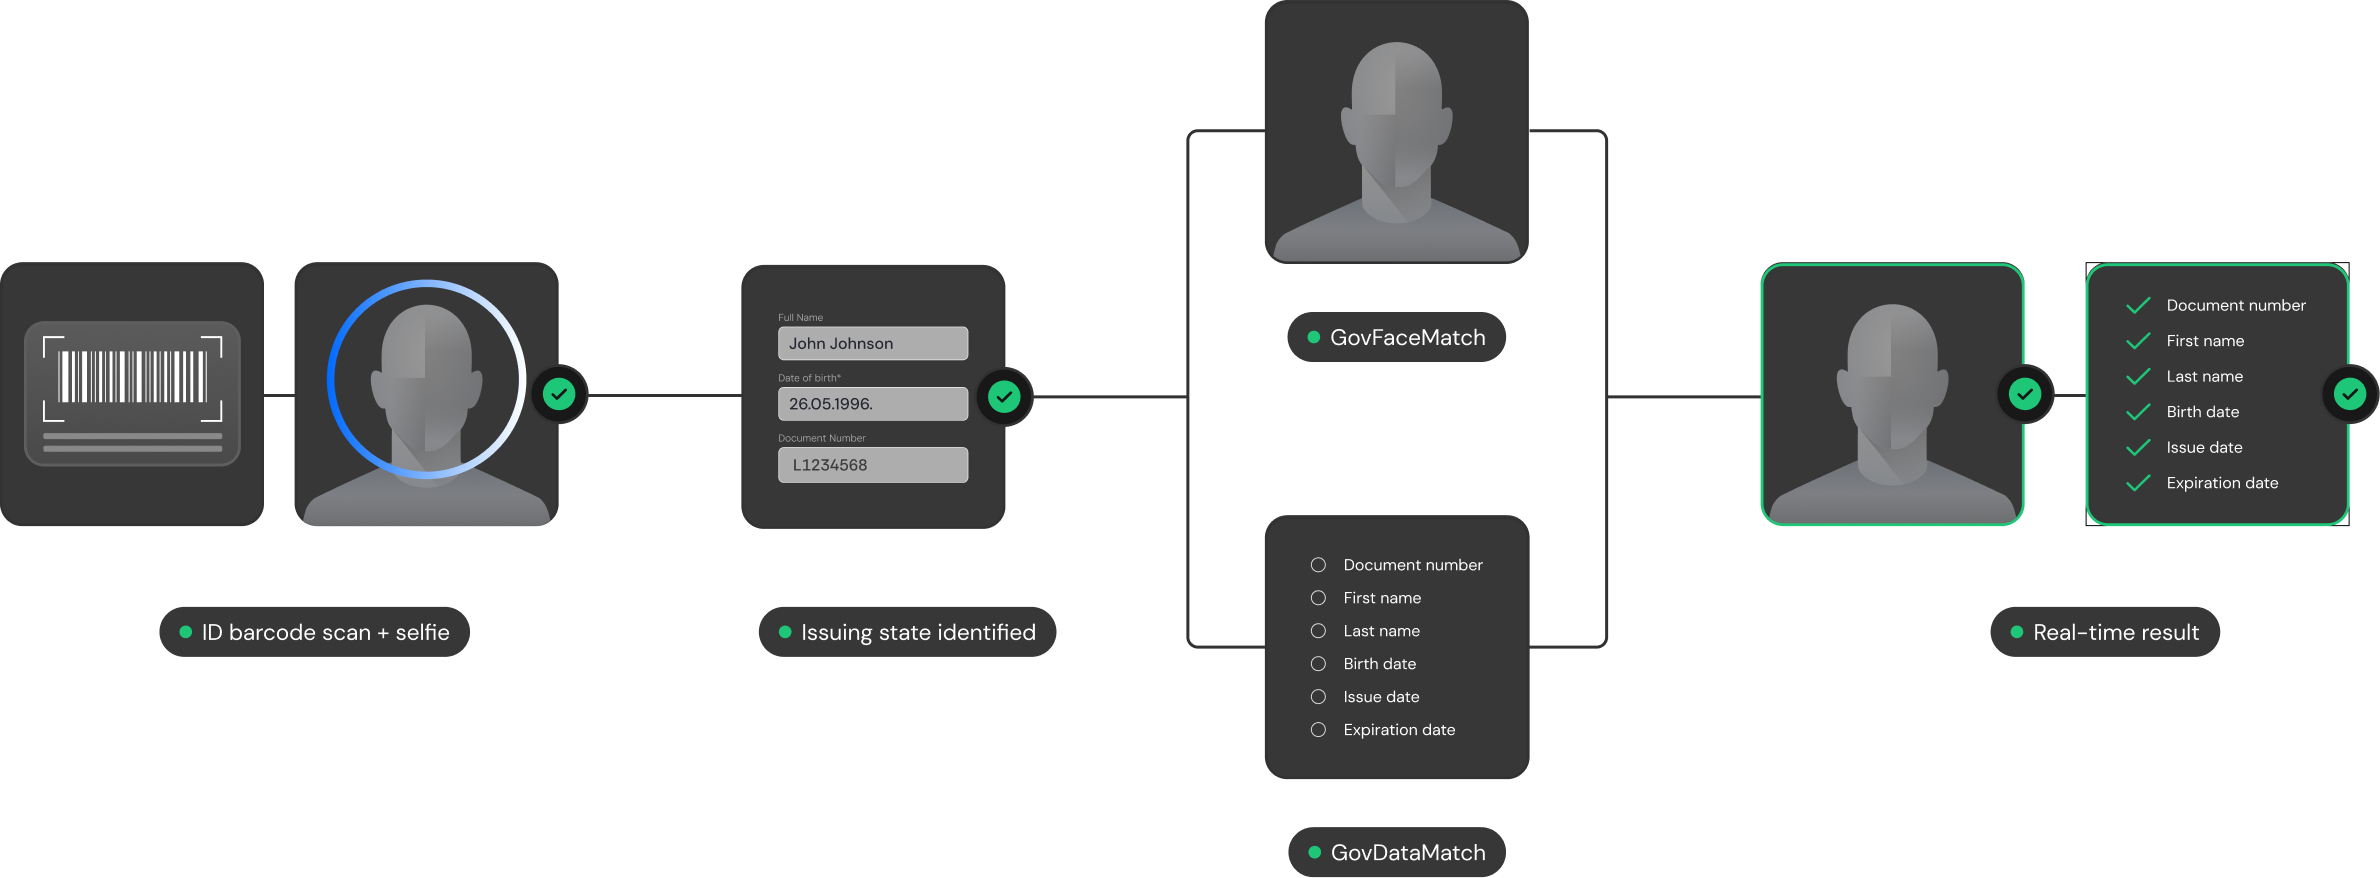
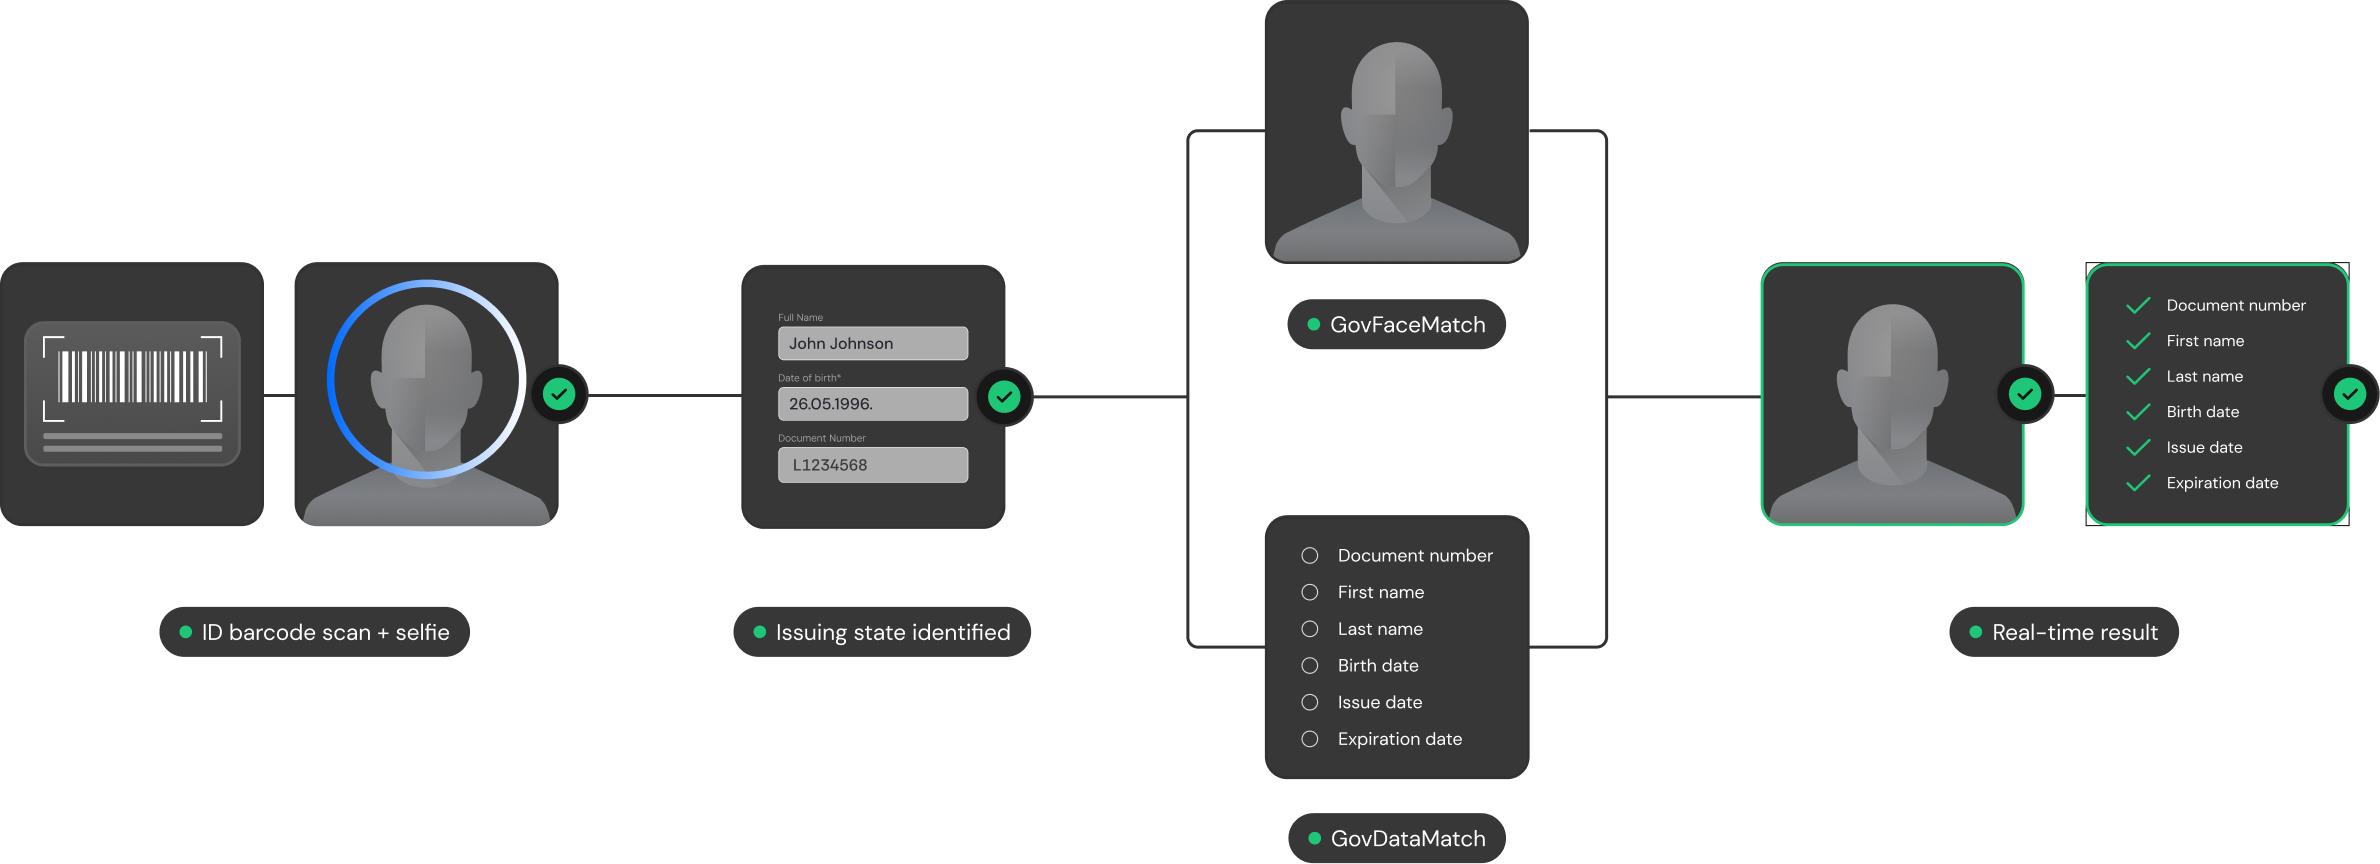
Update GovMatch diagram height to match latest asset

diff --git a/src/components/unified-flow.tsx b/src/components/unified-flow.tsx
@@ -28,7 +28,7 @@ const WORKFLOWS: Workflow[] = [
     coverage: "95%+ combined population coverage",
     diagram: "/GovMatch.png",
     diagramWidth: 2380,
-    diagramHeight: 878,
+    diagramHeight: 864,
     emphasized: true,
   },
   {
